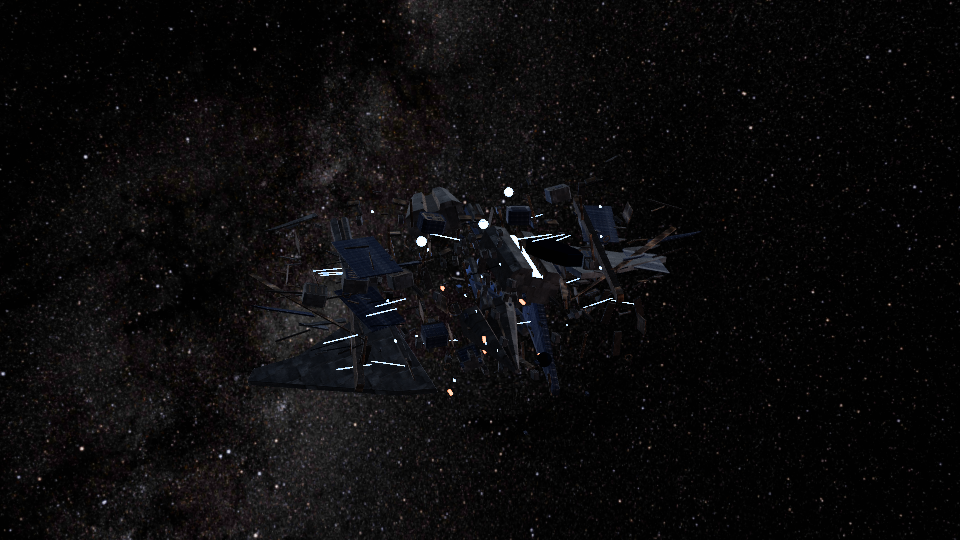
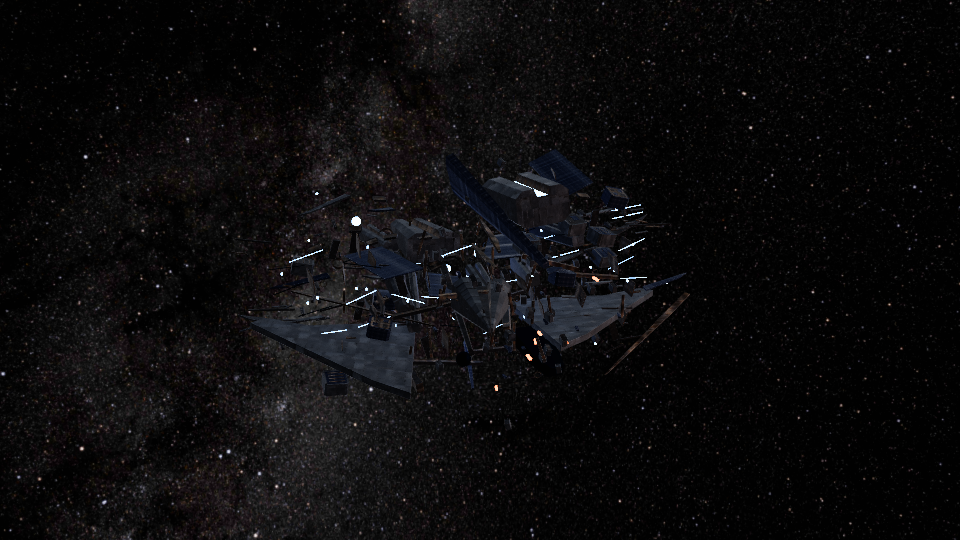
Seat Asterion components on shared ship structures

Changed region(s): [[0.25, 0.2667, 0.7188, 0.7407]]

diff --git a/examples/build_advanced_space_demo.py b/examples/build_advanced_space_demo.py
@@ -459,7 +459,7 @@ def poly_prism(name, outline, z_bottom, z_top, material, coll=craft):
 
 
 def sky_sphere(name, material, coll, radius=350, segments=96, rings=48):
-    # Inward-facing equirectangular UV mesh is visible from every camera cut.
+    # Inward-facing equirectangular UV mesh is visible throughout the orbit.
     # The seam has duplicate vertices so the image spans the sphere exactly once.
     verts = []
     for j in range(rings+1):
@@ -601,26 +601,41 @@ for side in (-1,1):
 # Nose sensors, dorsal guns, twin keel antennae and surface greebles.
 for i in range(18):
     a=math.tau*i/18
-    x=math.cos(a)*.45
-    z=math.sin(a)*.38
+    x=math.cos(a)*.24
+    z=math.sin(a)*.25
     detachable(box(f"NOSE-SENSOR-{i:02d}",(.13,.34,.1),
                    (x,4.6,z),white if i%3 else amber,bevel=.018),"spine",300+i)
 for side in (-1,1):
     for gun in range(9):
-        y=2.4-gun*.85
-        x=side*(1.64+gun*.16)
+        # Fasten each weapon to the swept wing skin, rather than leaving the
+        # forward guns suspended beyond the leading edge.
+        y=.8-gun*.56
+        x=side*(2.2+gun*.55)
         detachable(tapered(f"RAILGUN-{side:+d}-{gun:02d}",
                             .40,-.40,.07,.10,.07,.10,dark),
                    "wing-left" if side<0 else "wing-right",100+gun)
-        parts[-1].location=(x,y,.32)
+        parts[-1].location=(x,y,.19)
         detachable(box(f"RAILGUN-FLASH-{side:+d}-{gun:02d}",
-                       (.09,.13,.09),(x,y+.42,.32),blue,bevel=.012),
+                       (.09,.13,.09),(x,y+.42,.19),blue,bevel=.012),
                    "wing-left" if side<0 else "wing-right",120+gun)
 for i in range(70):
     y=RNG.uniform(-5.5,3.6)
-    x=RNG.choice((-1,1))*RNG.uniform(.12,1.14)
-    z=RNG.choice((-1,1))*RNG.uniform(.82,1.03)
+    # Keep every machined fitting partially seated in the pressure shell.
+    if y > 1.1:
+        progress=(5.1-y)/4.0
+        half_width=.10+(1.33-.10)*progress
+        half_height=.12+(.90-.12)*progress
+    elif y > -3.1:
+        progress=(1.1-y)/4.2
+        half_width=1.33+(1.48-1.33)*progress
+        half_height=.90+(.82-.90)*progress
+    else:
+        progress=(-3.1-y)/3.5
+        half_width=1.48+(1.00-1.48)*progress
+        half_height=.82+(.66-.82)*progress
+    x=RNG.choice((-1,1))*RNG.uniform(.12,.60)*half_width
     size=RNG.uniform(.035,.105)
+    z=RNG.choice((-1,1))*(half_height+size*.08)
     detachable(box(f"MICRO-GREEBLE-{i:03d}",
                    (size*1.3,size*2,size*.55),(x,y,z),
                    copper if i%5==0 else dark,bevel=.008),"spine",400+i)
@@ -650,16 +665,21 @@ for side in (-1,1):
         far=side*(8.0+panel*4.1)
         outline=[(near,2.2),(far,1.8),(far,-4.8),(near,-4.3)]
         role_object(poly_prism(f"EXPLORER-RADIATOR-{side:+d}-{panel}",
-                               outline,.65,.73,white),"EXPLORER")
+                               outline,.40,.48,white),"EXPLORER")
         for rib in range(9):
             yy=1.60-rib*.70
             xx=side*(6.2+panel*4.0)
             role_object(box(f"EXPLORER-SOLAR-CELL-{side:+d}-{panel}-{rib:02d}",
-                            (2.9,.055,.025),(xx,yy,.745),
+                            (2.9,.055,.025),(xx,yy,.49),
                             canopy_mat if rib%2 else blue,bevel=.008),"EXPLORER")
+    for station, yy in enumerate((.8,-3.0)):
+        role_object(box(f"EXPLORER-ARRAY-TRUSS-{side:+d}-{station}",
+                        (3.6,.24,.30),(side*3.0,yy,.36),copper,
+                        bevel=.035),"EXPLORER")
     for probe in range(4):
         role_object(ring(f"EXPLORER-LIDAR-{side:+d}-{probe}",
-                         (side*(2.1+probe*.85),3.8,.38),.21,.035,copper,
+                         (side*.17,5.2+probe*1.55+(0 if side<0 else .72),0),
+                         .21,.035,copper,
                          segments=16),"EXPLORER")
 
 # HAULER: broad twin cargo rails, twelve tall transport modules and reinforced
@@ -672,9 +692,11 @@ for side in (-1,1):
                         (.55,.20,1.65),(side*5.4,2.9-station*1.55,.82),
                         dark,bevel=.025),"HAULER")
 for row in range(4):
+    yy=2.3-row*2.35
+    role_object(box(f"HAULER-CARGO-DECK-{row:02d}",
+                    (7.6,.36,.34),(0,yy,.87),dark,bevel=.045),"HAULER")
     for col in range(3):
         xx=(col-1)*2.55
-        yy=2.3-row*2.35
         role_object(box(f"HAULER-CARGO-{row:02d}-{col:02d}",
                         (2.15,2.0,1.34),(xx,yy,1.70),
                         white if (row+col)%3==0 else hull,bevel=.11),"HAULER")
@@ -816,27 +838,32 @@ for idx,obj in enumerate(parts):
     hauler_scale=(1,1,1)
     if group.startswith("wing"):
         side=-1 if group.endswith("left") else 1
-        explorer.x=side*(1.25+max(0,abs(rest.x)-1.25)*1.75)
-        explorer.y=rest.y*1.18+max(0,abs(rest.x)-2)*.28
-        explorer.z=rest.z+.57
-        explorer_angle.z=side*.13
-        hauler.x=side*(2.4+max(0,abs(rest.x)-1.25)*.66)
-        hauler.y=rest.y-.75
-        hauler.z=rest.z-.40
-        hauler_angle.y=side*.62
+        # Rotate the complete wing assembly around one root hinge. Applying a
+        # different stretch to each part separated its plates and weapons.
+        pivot=Vector((side*1.0,1.0,0))
+        relative=rest-pivot
+        turn=side*.28
+        explorer=Vector((pivot.x+relative.x*math.cos(turn)
+                         -relative.y*math.sin(turn),
+                         pivot.y+relative.x*math.sin(turn)
+                         +relative.y*math.cos(turn),rest.z+.22))
+        explorer_angle.z=turn
+        fold=-side*.38
+        hauler=Vector((pivot.x+relative.x*math.cos(fold)
+                       +relative.z*math.sin(fold),
+                       rest.y-.50,
+                       pivot.z-relative.x*math.sin(fold)
+                       +relative.z*math.cos(fold)-.20))
+        hauler_angle.y=fold
     elif group.startswith("engine"):
         side=-1 if group.endswith("left") else 1
-        explorer.x=side*(abs(rest.x)*1.36)
-        explorer.y=rest.y-1.2
-        hauler.x=side*(abs(rest.x)*1.55)
-        hauler.y=rest.y-.6
-        hauler.z=rest.z-.5
+        explorer=rest+Vector((side*1.0,-.65,.12))
+        hauler=rest+Vector((side*1.0,-.60,-.25))
     elif group=="spine":
-        explorer.y=rest.y*1.26
-        explorer_scale=(.81,1.13,.82)
-        hauler.x=rest.x*1.28
-        hauler.y=rest.y*.86
-        hauler_scale=(1.22,.88,1.22)
+        # The pressure shell stays watertight in every role. Mission hardware
+        # and hinged wings change the outline around this common load path.
+        explorer=rest.copy()
+        hauler=rest.copy()
     # Each object fires independently, then joins two starkly different
     # layouts. Key hold frames make the three role silhouettes unambiguous.
     trajectory=[(1,rest,(0,0,0),(1,1,1)),
@@ -888,28 +915,36 @@ for role, objects in role_parts.items():
                 combat_scale=(.80,.80,.80)
                 hauler=Vector((0,9.9,-.6))
                 hauler_scale=(.9,.9,.9)
+            elif "ARRAY-TRUSS" in obj.name:
+                side=-1 if original.x<0 else 1
+                combat=Vector((side*3.0,original.y,-.06))
+                combat_scale=(.82,.86,.72)
+                hauler=Vector((side*3.45,original.y,1.08))
+                hauler_scale=(.92,1,.9)
             elif "RADIATOR" in obj.name:
                 side=-1 if original.x<0 else 1
                 panel=0 if abs(original.x)<8 else 1
                 combat=Vector((side*(3.8+panel*1.75),-2.1,.36))
                 combat_scale=(.52,.58,.8)
                 combat_angle.z=side*.18
-                hauler=Vector((side*(3.85+panel*.40),1.35-panel*3.15,2.62))
+                hauler=Vector((side*(3.85+panel*.40),1.35-panel*3.15,2.36))
                 hauler_scale=(.48,.47,.7)
                 hauler_angle.y=side*.16
             elif "SOLAR-CELL" in obj.name:
                 side=-1 if original.x<0 else 1
                 panel=0 if abs(original.x)<8 else 1
                 rib=round((1.60-original.y)/.70)
-                combat=Vector((side*(3.8+panel*1.75),.50-rib*.47,.55))
+                combat=Vector((side*(3.8+panel*1.75),.50-rib*.47,.40))
                 combat_scale=(.56,.80,.8)
                 hauler=Vector((side*(3.85+panel*.40),
-                               2.5-panel*3.15-rib*.32,2.82))
+                               2.5-panel*3.15-rib*.32,2.40))
                 hauler_scale=(.50,.8,.8)
             else:  # lidar rings become combat apertures and cargo couplers
-                side=-1 if original.x<0 else 1
-                probe=round((abs(original.x)-2.1)/.85)
-                combat=Vector((side*(2.3+probe*.75),2.7-probe*.65,.48))
+                match=re.search(r"EXPLORER-LIDAR-([+-]1)-(\d+)",obj.name)
+                if match is None:
+                    raise ValueError(f"Unclassified survey collar: {obj.name}")
+                side,probe=(int(value) for value in match.groups())
+                combat=Vector((side*(2.6+probe*.8),.8-probe*1.3,.22))
                 combat_scale=(.8,.8,.8)
                 hauler=Vector((side*5.35,2.8-probe*2.1,1.05))
                 hauler_scale=(1,1,1)
@@ -920,16 +955,21 @@ for role, objects in role_parts.items():
                 side=-1 if original.x<0 else 1
                 combat=Vector((side*4.15,-1.6,-.55))
                 combat_scale=(.63,.73,.72)
-                explorer=Vector((side*2.45,-1.25,-.65))
+                explorer=Vector((side*1.20,-1.1,.55))
                 explorer_scale=(.55,.83,.60)
             elif "CRADLE-BRACE" in obj.name:
                 side=-1 if original.x<0 else 1
                 station=round((2.9-original.y)/1.55)
-                combat=Vector((side*3.45,2.2-station*1.45,-.35))
+                combat=Vector((side*3.45,-.2-station*.85,-.35))
                 combat_scale=(.68,.72,.70)
-                explorer=Vector((side*(2.5+station*.13),
-                                 2.8-station*1.55,-.62))
+                explorer=Vector((side*1.20,2.8-station*1.55,.85))
                 explorer_scale=(.55,.72,.62)
+            elif "CARGO-DECK" in obj.name:
+                row=int(obj.name.rsplit("-",1)[-1])
+                combat=Vector((0,1.7-row*1.6,-.32))
+                combat_scale=(.70,.80,.50)
+                explorer=Vector((0,2.6-row*1.9,-.45))
+                explorer_scale=(.70,.80,.50)
             else:  # twelve cargo pods and their permanently attached straps
                 match=re.search(r"HAULER-(?:CARGO|CONTAINER-STRAP)-(\d+)-(\d+)",obj.name)
                 if match is None:
@@ -942,9 +982,8 @@ for role, objects in role_parts.items():
                                1.1-(row%2)*2.15-col*.30,
                                .53+(original.z-1.70)*.50))
                 combat_scale=(.50,.52,.50)
-                explorer=Vector(((col-1)*1.65+local_x*.43,
-                                 5.2-row*2.15,
-                                 .39+(original.z-1.70)*.43))
+                explorer=Vector(((col-1)*1.10+local_x*.43,
+                                 2.6-row*1.9,1.02))
                 explorer_scale=(.43,.46,.43)
         direction=Vector((RNG.uniform(-1,1),RNG.uniform(-.25,1.2),
                           RNG.uniform(-.85,.85)))

diff --git a/examples/validate_advanced_space_demo.py b/examples/validate_advanced_space_demo.py
@@ -10,6 +10,7 @@ from __future__ import annotations
 import json
 import math
 import hashlib
+import re
 from pathlib import Path
 
 import bpy
@@ -61,7 +62,8 @@ assert len(unique_profiles) == len(detachable), (
 assert all(obj.get("fabrication_variant") for obj in detachable), (
     "Every craft part needs a deterministic fabrication variant"
 )
-cargo_pods = [obj for obj in detachable if obj.name.startswith("HAULER-CARGO-")]
+cargo_pods = [obj for obj in detachable
+              if re.fullmatch(r"HAULER-CARGO-\d\d-\d\d", obj.name)]
 roof_variants = {obj.get("roof_variant") for obj in cargo_pods}
 assert len(cargo_pods) == 12 and len(roof_variants) >= 4, (
     "Cargo modules need individual roof machinery profiles"
@@ -171,6 +173,37 @@ def configuration_bounds(candidates):
     return low + high
 
 
+def assembly_components(candidates, clearance=.05):
+    # AABB overlap is a conservative screen for visible floating modules. It
+    # does not certify a welded joint, but catches separated wings, arrays,
+    # fittings, and cargo pods in each assembled configuration.
+    bounds = []
+    for obj in candidates:
+        points = [obj.matrix_world @ Vector(corner) for corner in obj.bound_box]
+        bounds.append((tuple(min(point[axis] for point in points) for axis in range(3)),
+                       tuple(max(point[axis] for point in points) for axis in range(3))))
+    parent = list(range(len(candidates)))
+
+    def root(index):
+        while parent[index] != index:
+            parent[index] = parent[parent[index]]
+            index = parent[index]
+        return index
+
+    for index, first in enumerate(bounds):
+        for other in range(index):
+            second = bounds[other]
+            gap_squared = sum(max(0, second[0][axis]-first[1][axis],
+                                  first[0][axis]-second[1][axis])**2
+                              for axis in range(3))
+            if gap_squared <= clearance**2:
+                parent[root(index)] = root(other)
+    clusters = {}
+    for index, obj in enumerate(candidates):
+        clusters.setdefault(root(index), []).append(obj.name)
+    return sorted(clusters.values(), key=len, reverse=True)
+
+
 original_frame = scene.frame_current
 original_subframe = scene.frame_subframe
 sample_frames = (1, 541, 580, 841, 900, 1041, 1261, 1801, 1840,
@@ -178,6 +211,8 @@ sample_frames = (1, 541, 580, 841, 900, 1041, 1261, 1801, 1840,
 sampled_poses = {}
 sampled_bounds = {}
 visible_counts = {}
+assembly_cluster_counts = {}
+assembly_outliers = {}
 camera_samples = {}
 camera_probe_frames = sorted(set(range(1, scene.frame_end+1, 30)) | {scene.frame_end} |
                              {frame+offset for frame in (541, 580, 900, 1041,
@@ -195,6 +230,10 @@ try:
             or obj.get("configuration_role") in {"EXPLORER", "HAULER"}
         ]
         sampled_bounds[frame] = configuration_bounds(config_objects)
+        if frame in (1, 1261, 2521):
+            clusters = assembly_components(detachable)
+            assembly_cluster_counts[frame] = len(clusters)
+            assembly_outliers[frame] = [group[0] for group in clusters[1:]]
     for frame in camera_probe_frames:
         scene.frame_set(frame)
         bpy.context.view_layer.update()
@@ -219,6 +258,9 @@ assert len(animated_detachable) >= 350, (
 )
 assert all(count == len(detachable) for count in visible_counts.values()), (
     f"Some craft pieces disappear instead of being reused: {visible_counts}"
+)
+assert all(count == 1 for count in assembly_cluster_counts.values()), (
+    f"Assembled configurations contain floating groups: {assembly_outliers}"
 )
 camera_travel = sum((camera_samples[right][0]-camera_samples[left][0]).length
                     for left, right in zip(camera_probe_frames, camera_probe_frames[1:]))
@@ -303,6 +345,7 @@ summary = {
     },
     "specializedModuleCounts": {"EXPLORER": len(explorer), "HAULER": len(hauler)},
     "visiblePartCounts": visible_counts,
+    "assemblyClusterCounts": assembly_cluster_counts,
     "cameraTravelMeters": camera_travel,
     "maxCameraMetersPerFrame": max_camera_speed,
     "maxCameraRadiansPerFrame": max_camera_turn,

diff --git a/examples/advanced_spaceship/README.md b/examples/advanced_spaceship/README.md
@@ -1,6 +1,6 @@
 # Asterion Breakaway demo
 
-A 60-second Blender-to-TiXL stress scene: one persistent set of 492 spacecraft meshes breaks into individually animated projectile parts and rebuilds as three distinct configurations. Every part is visible and reused in COMBAT, EXPLORER, and HAULER; no role modules are swapped in or hidden. One camera follows the action in an uninterrupted orbital take.
+A 60-second Blender-to-TiXL stress scene: one persistent set of 500 spacecraft meshes breaks into individually animated projectile parts and rebuilds as three distinct configurations. Every part is visible and reused in COMBAT, EXPLORER, and HAULER; no role modules are swapped in or hidden. One camera follows the action in an uninterrupted orbital take.
 
 ## Materials and texture assets
 
@@ -34,13 +34,17 @@ The scene is 60 seconds at 60 fps. A single camera follows a continuous orbit wi
 | 42–51 s | HAULER cargo configuration |
 | 51–60 s | Return to COMBAT and final assembly |
 
-The same hull, survey, and cargo meshes form all three ships. Each module has combat, explorer, hauler, and projectile poses, so the transition exercises hundreds of independent transform records without adding or removing craft parts. All 492 craft meshes have distinct manufactured profiles and individually offset texture wear. The hull and engine pieces have recessed service trenches; cargo pods have four roof machinery patterns. `../validate_advanced_space_demo.py`, run through Blender MCP TCP, checks the persistent pool, its visibility at representative frames, distinct mesh profiles, packed maps, camera continuity, and the slowed debris intervals.
+The same hull, survey, and cargo meshes form all three ships. Each module has combat, explorer, hauler, and projectile poses, so the transition exercises hundreds of independent transform records without adding or removing craft parts. All 500 craft meshes have distinct manufactured profiles and individually offset texture wear. The hull and engine pieces have recessed service trenches; cargo pods have four roof machinery patterns. Wing plates and guns now rotate as rigid assemblies around shared hinges. Survey panels sit on array trusses; cargo pods rest on a deck; small fittings are seated in the pressure shell. `../validate_advanced_space_demo.py`, run through Blender MCP TCP, checks the persistent pool, its visibility at representative frames, connected assemblies, distinct mesh profiles, packed maps, camera continuity, and the slowed debris intervals.
+
+## Design references
+
+The role silhouettes draw on [Starbound's official visual gallery](https://playstarbound.com/media/) and [No Man's Sky's fighter, explorer, and hauler component system](https://www.nomanssky.com/orbital-update/). The structural pass takes its mounting logic from [NASA's integrated truss](https://www.nasa.gov/international-space-station/integrated-truss-structure/) and [ESA's spacecraft boom and solar-array examples](https://www.esa.int/TEC/Structures/SEMWAE7DWZE_1.html). These are visual and engineering references; the meshes are original procedural assets.
 
 ## TiXL sync and verification
 
 With the saved scene open through Blender MCP TCP, sync it using the bridge workflow and the configured TiXL operator project. In TiXL, inspect the generated world graph and texture routes, then evaluate and capture renders at the COMBAT, breakup, EXPLORER, HAULER, and final assembly markers. Confirm the rendered output as well as graph connections.
 
-The current reference run synced successfully to TiXL 4.3.0.2. Its generated cache contains 492 animated reusable craft parts, with no visibility-switch channels. The single 60-second camera rail has 3,600 samples; its largest adjacent-frame move is 0.253 m and its largest forward-direction turn is 0.007 rad. The generated graph has 29 children and 52 connections, with no missing child or connection references. The 16K panorama remains embedded in the glTF scene. The sync took about 66 seconds and published about 199 MB of generated cache data. TiXL rendered all three configurations and each slowed breakup: [combat](previews/tixl_combat.png), [first snap](previews/tixl_bullet_snap.png), [first suspended drift](previews/tixl_bullet_drift.png), [explorer](previews/tixl_explorer.png), [second suspended drift](previews/tixl_bullet_hauler.png), [hauler](previews/tixl_hauler.png), [return drift](previews/tixl_bullet_return.png), and [final combat](previews/tixl_final.png). Matching Blender views show the [first snap](previews/bullet_time_snap_blender.png), [suspended drift](previews/bullet_time_drift_blender.png), and [hauler transition](previews/bullet_time_hauler_blender.png).
+The current reference run synced successfully to TiXL 4.3.0.2. Its generated cache contains 500 animated reusable craft parts, with no visibility-switch channels. The single 60-second camera rail has 3,600 samples; its largest adjacent-frame move is 0.253 m and its largest forward-direction turn is 0.007 rad. The generated graph has 29 children and 52 connections, with no missing child or connection references. The 16K panorama remains embedded in the glTF scene. The sync took about 69 seconds and published about 201 MB of generated cache data. TiXL rendered all three configurations and each slowed breakup: [combat](previews/tixl_combat.png), [first snap](previews/tixl_bullet_snap.png), [first suspended drift](previews/tixl_bullet_drift.png), [explorer](previews/tixl_explorer.png), [second suspended drift](previews/tixl_bullet_hauler.png), [hauler](previews/tixl_hauler.png), [return drift](previews/tixl_bullet_return.png), and [final combat](previews/tixl_final.png). Matching Blender views show the [combat](previews/combat_blender.png), [explorer](previews/explorer_blender.png), [hauler](previews/hauler_blender.png), [first snap](previews/bullet_time_snap_blender.png), [suspended drift](previews/bullet_time_drift_blender.png), and [hauler transition](previews/bullet_time_hauler_blender.png).
 
 The earlier bounded playback sample in [playback_metrics.json](playback_metrics.json) predates this camera revision. The eight current output captures above verify the new camera views and breakup staging. TiXL's output-evaluation counters do not establish continuous scene-rendering performance; use workload-specific profiling for that question.
 
